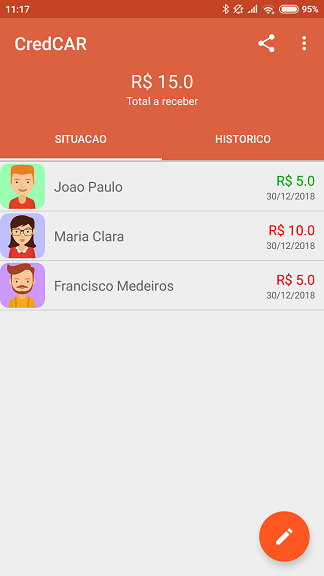
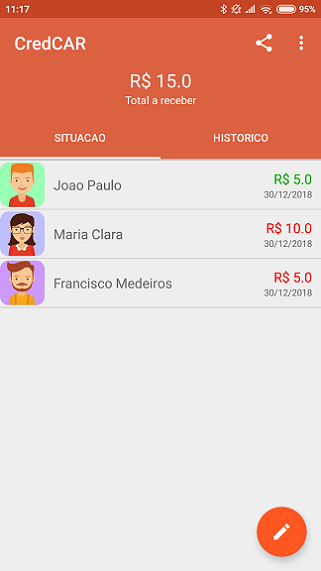
Redimencionando imagens

diff --git a/README.md b/README.md
@@ -1,4 +1,4 @@
-CredCAR
+CredCAR
 =======================
 **CredCAR** foi desenvolvido utilizando o [Android Studio](https://developer.android.com/studio/) como projeto final da disciplina Programação para Dispositivos Moveis 2018.2.
 
@@ -18,7 +18,7 @@ Visite [documentação](https://github.com/jrrf/CredCAR/tree/master/Documentacao
 
 Versão do android suportada
 ----------------
-Android 4.4 +
+- Android 4.4 +
 
 Log de versões
 ----------------
